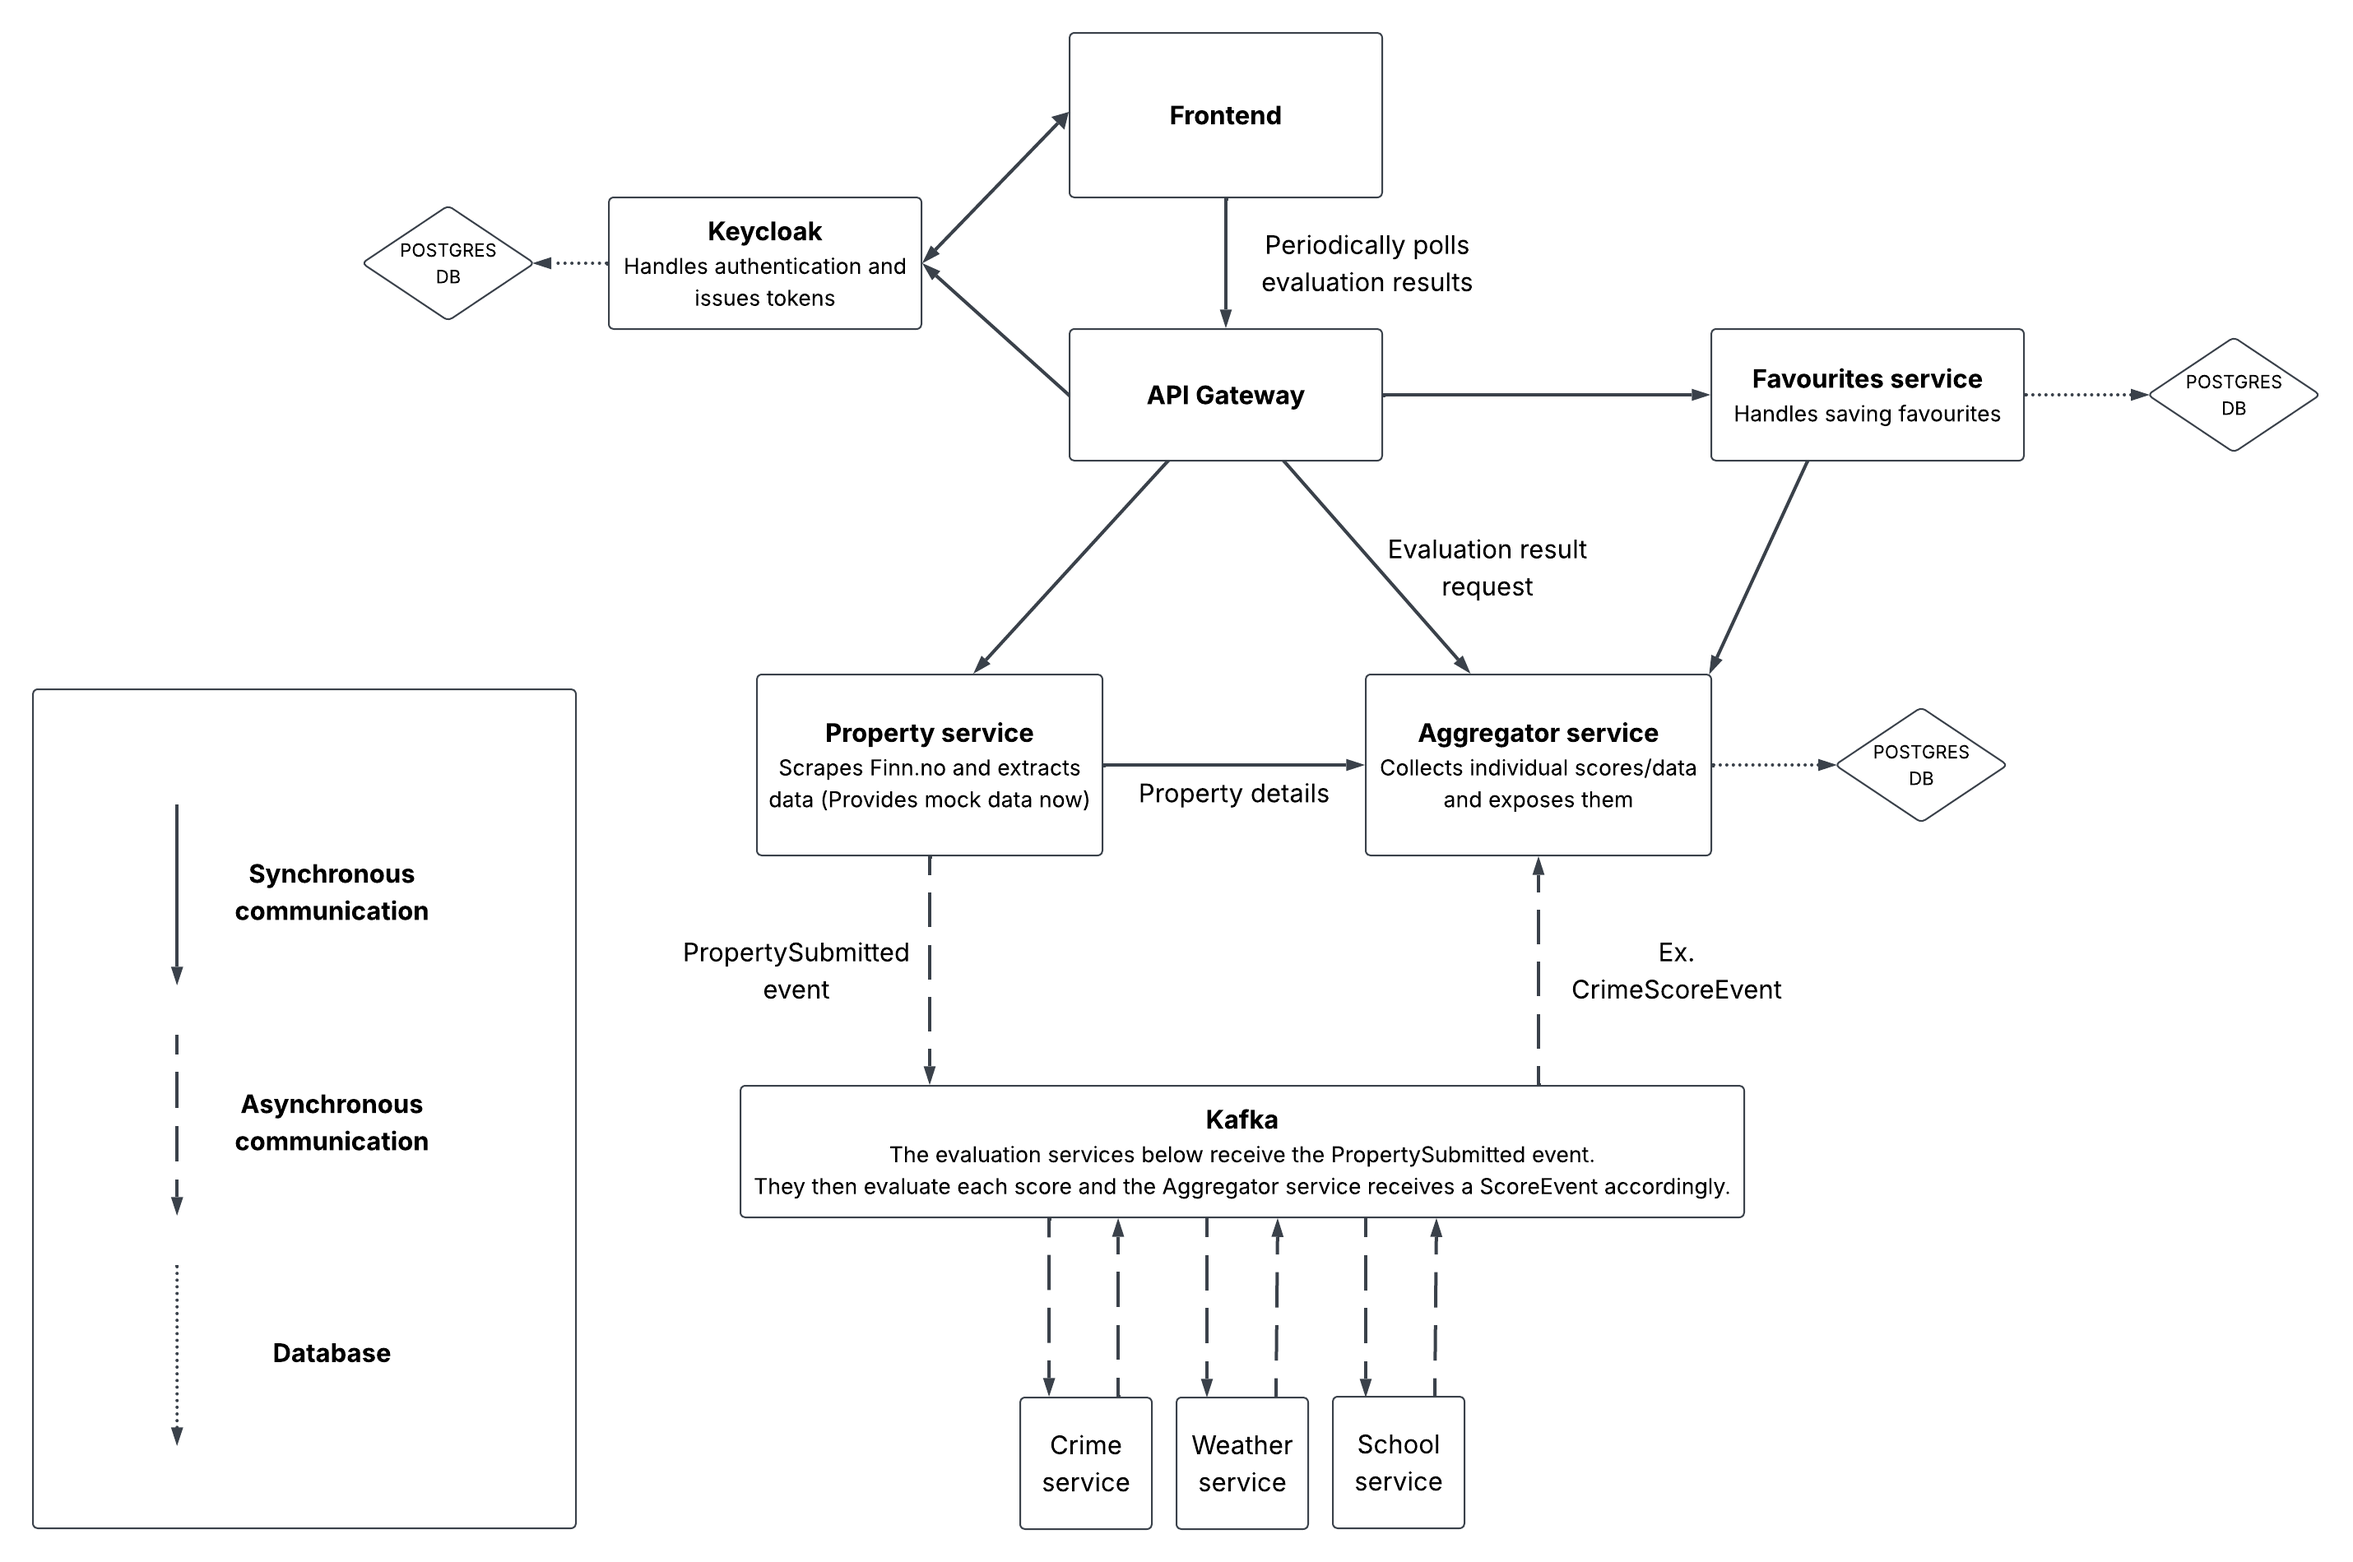
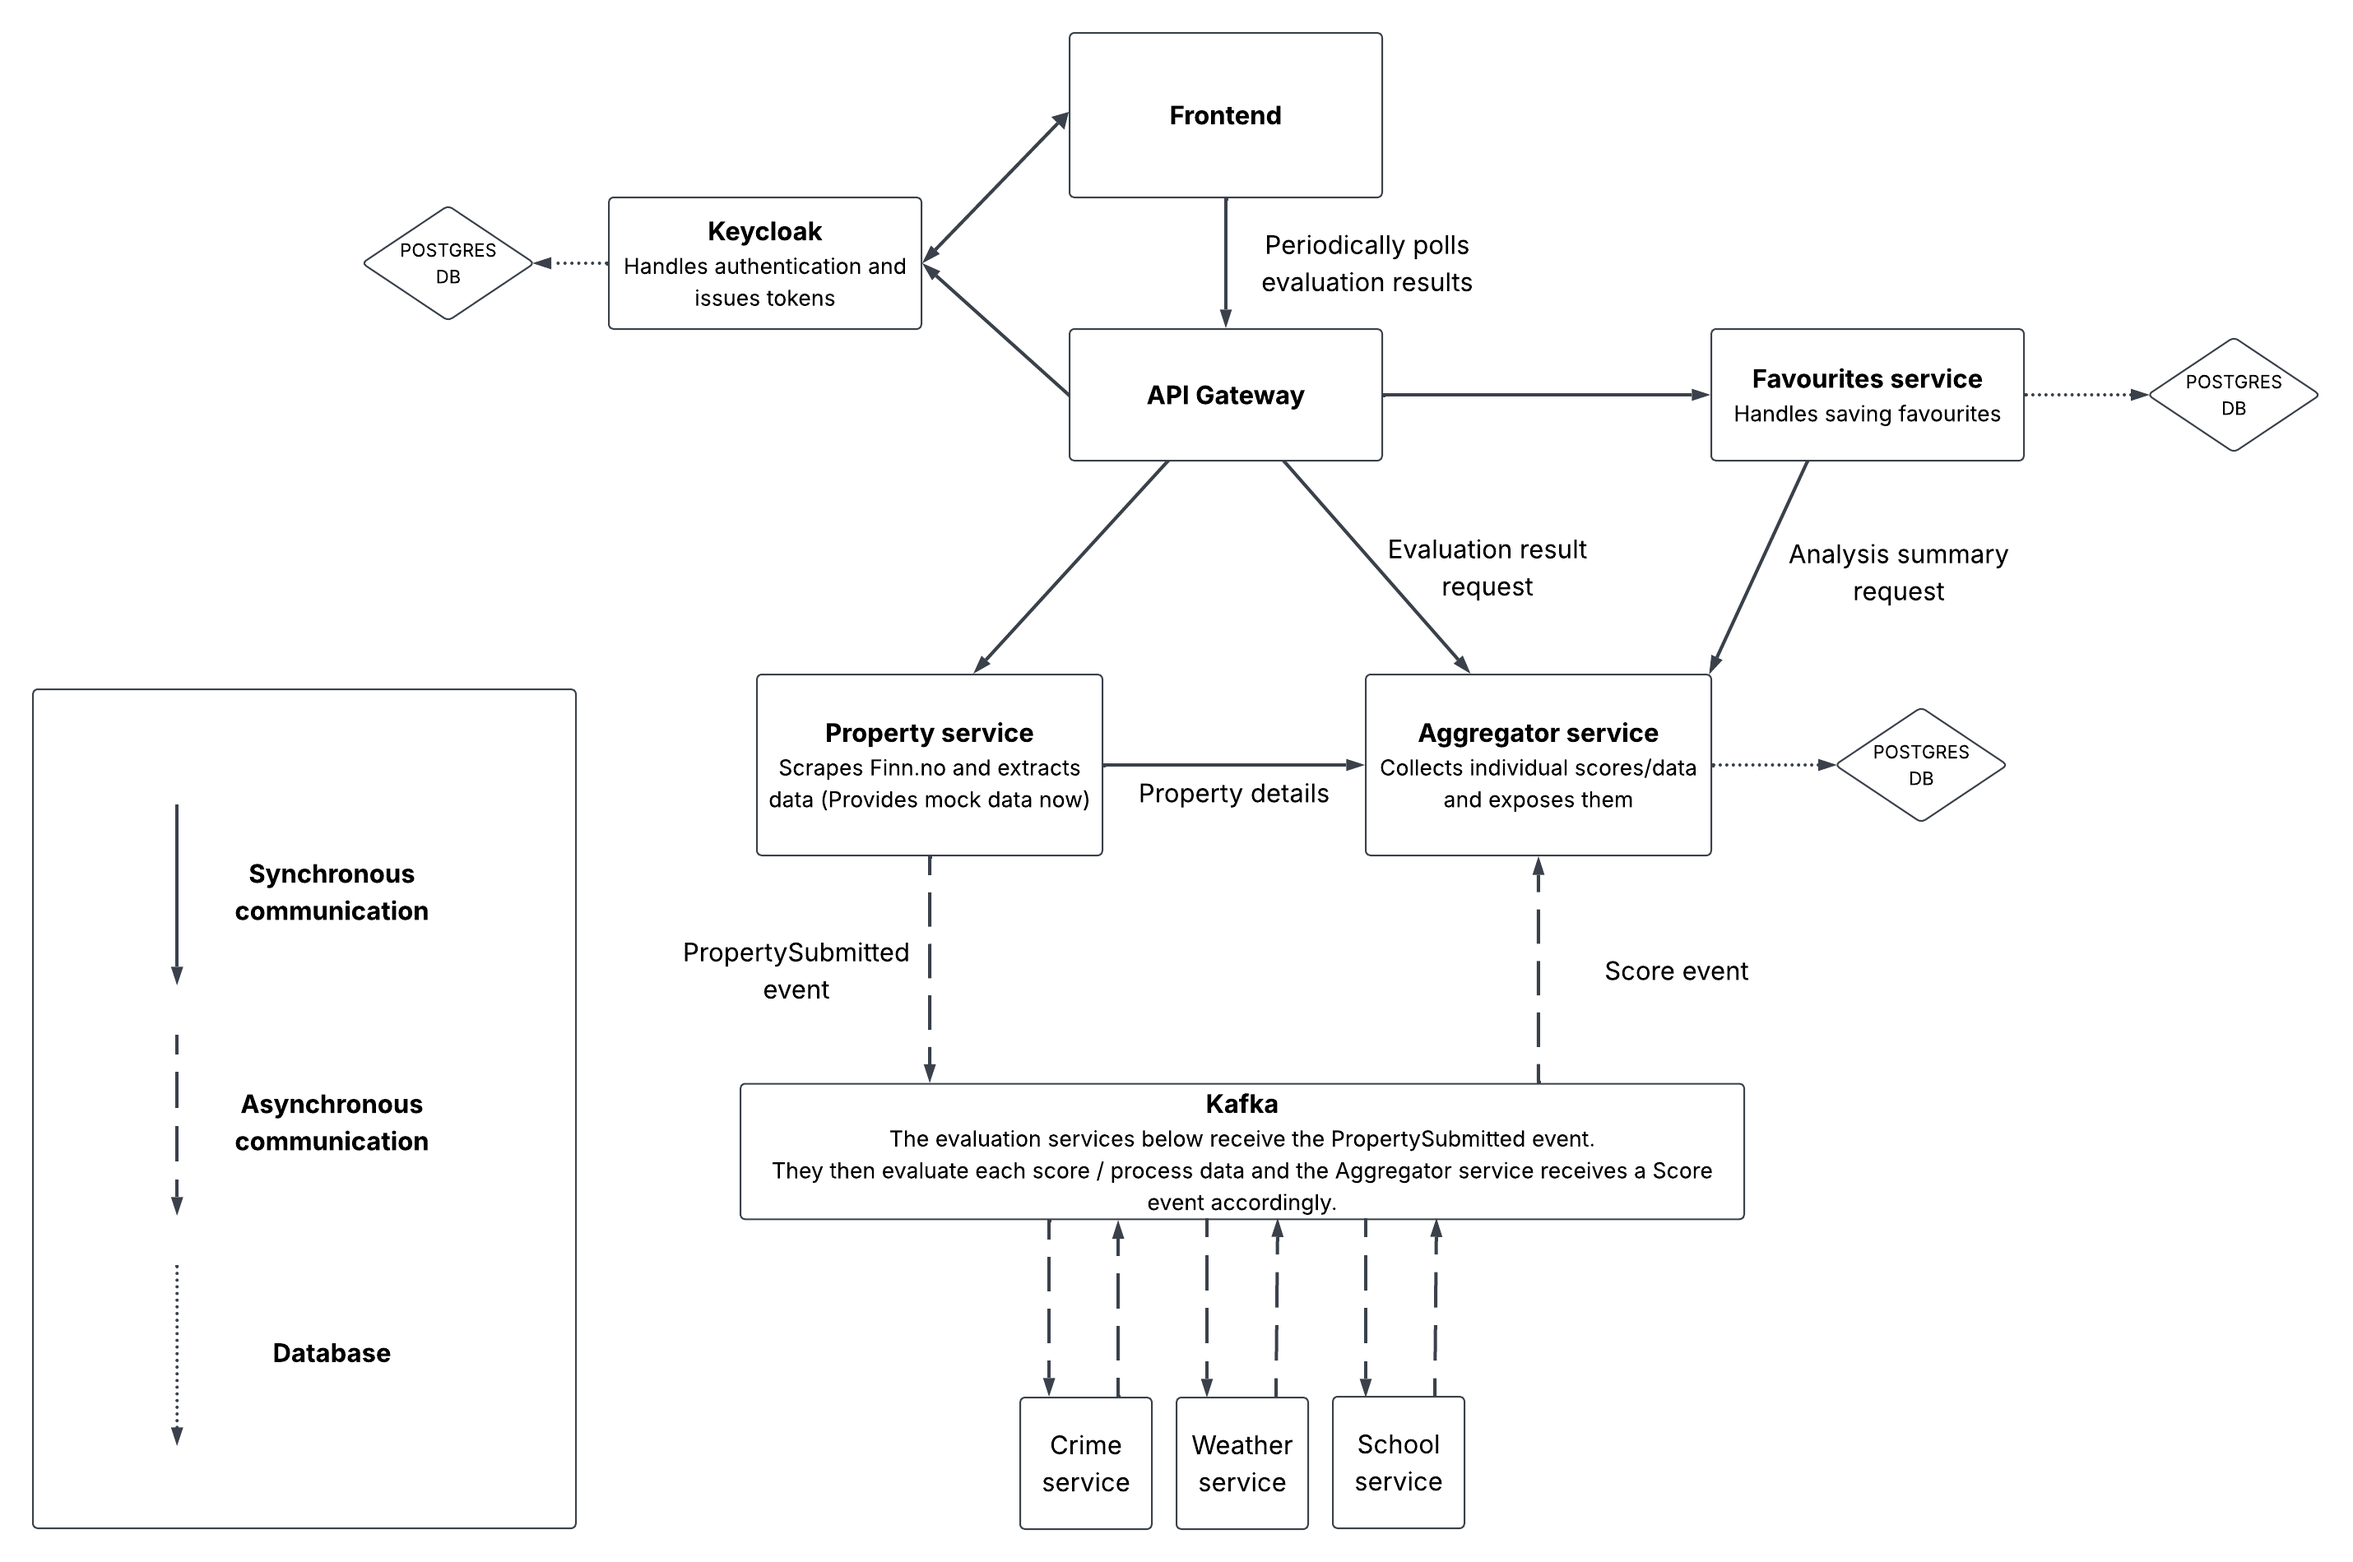
Update README to show candidate number 38 contributions

Changed region(s): [[0.3112, 0.6835, 0.7469, 0.8078], [0.778, 0.3418, 0.8402, 0.4039], [0.6846, 0.5903, 0.7469, 0.6524]]

diff --git a/README.md b/README.md
@@ -127,3 +127,12 @@ All microservices send structured JSON logs to Logstash, which indexes and store
   * **Favourites:** saving favourites per user in PostgreSQL.
   * **Gateway:** routing and protected routes with JWT validation.
   * **Keycloak:** authentication setup with realm, demo user, login and sign-up.
+
+* **Candidate number 38** - Responsible for Docker setup, aggregator, partly gateway, partly frontend, Kafka integration, Consul, and general functionality.
+  * **Docker:** initial containerization and general management of compose.
+  * **Aggregator:** gathering data from services and saving in PostgreSQL to serve the frontend.
+  * **Gateway:** configuring load-balanced URIs for dynamic routing.
+  * **Frontend:** functionality for customizing preferences (disabling factors included in score summary).
+  * **Kafka:** adding Kafka integration and functionality for PropertySubmitted events.
+  * **Consul:** service discovery, health checks, centralized configuration. 
+  * **General:** configuring services for scaling (multiple instances), as well as providing a general guideline for the project architecture/flow. 
